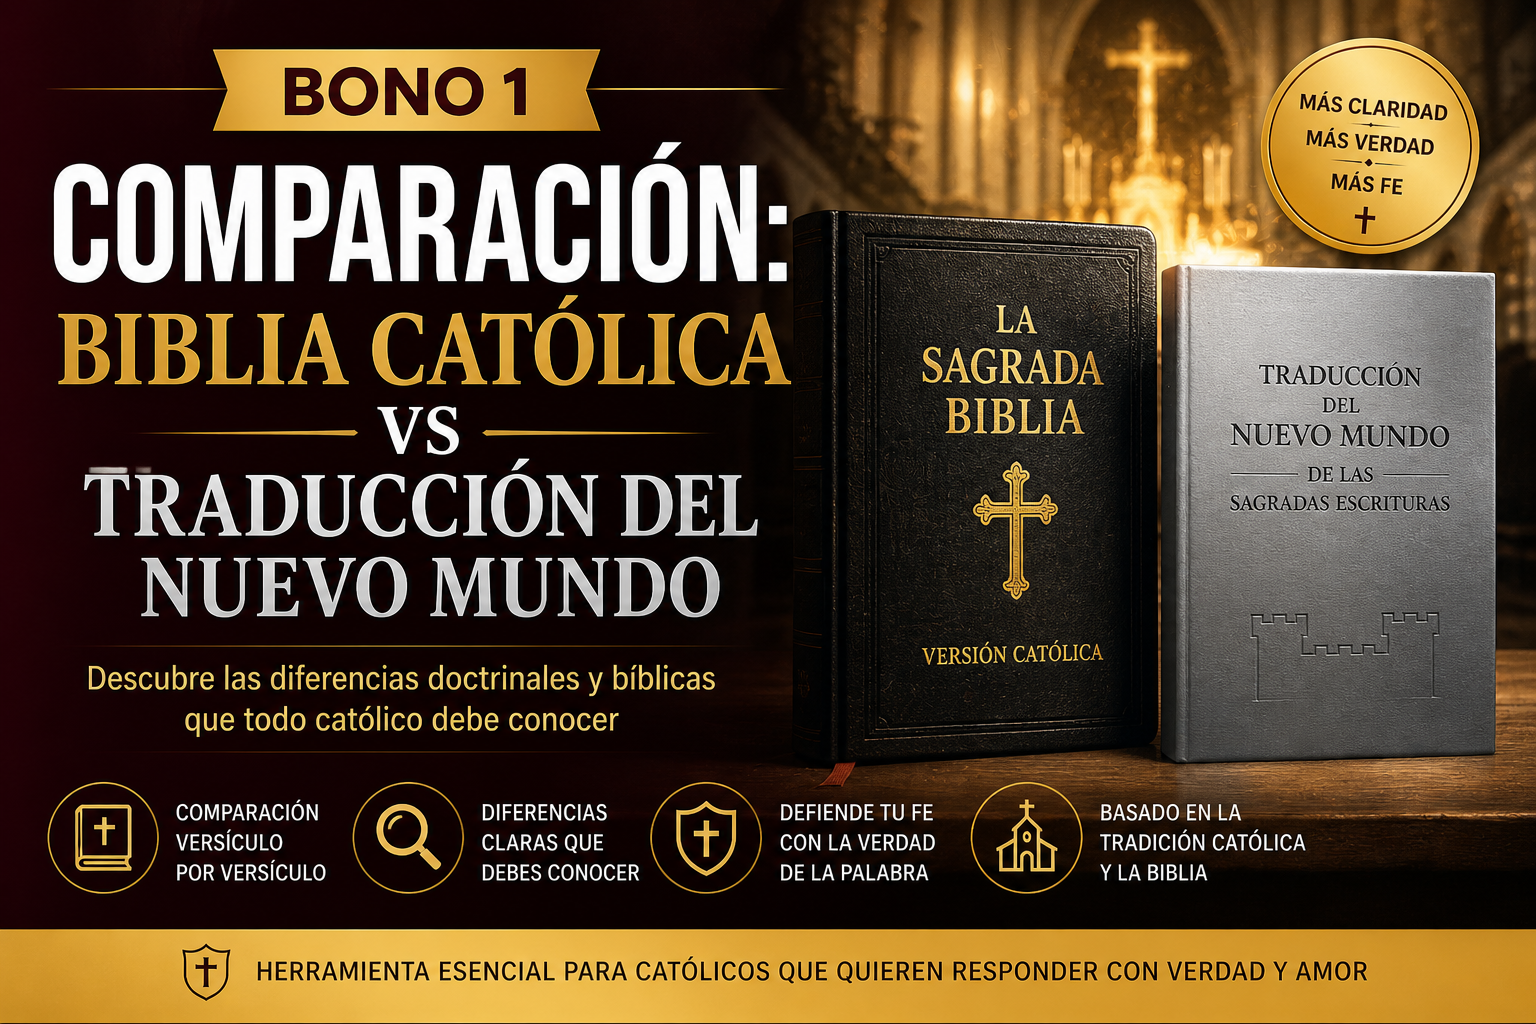
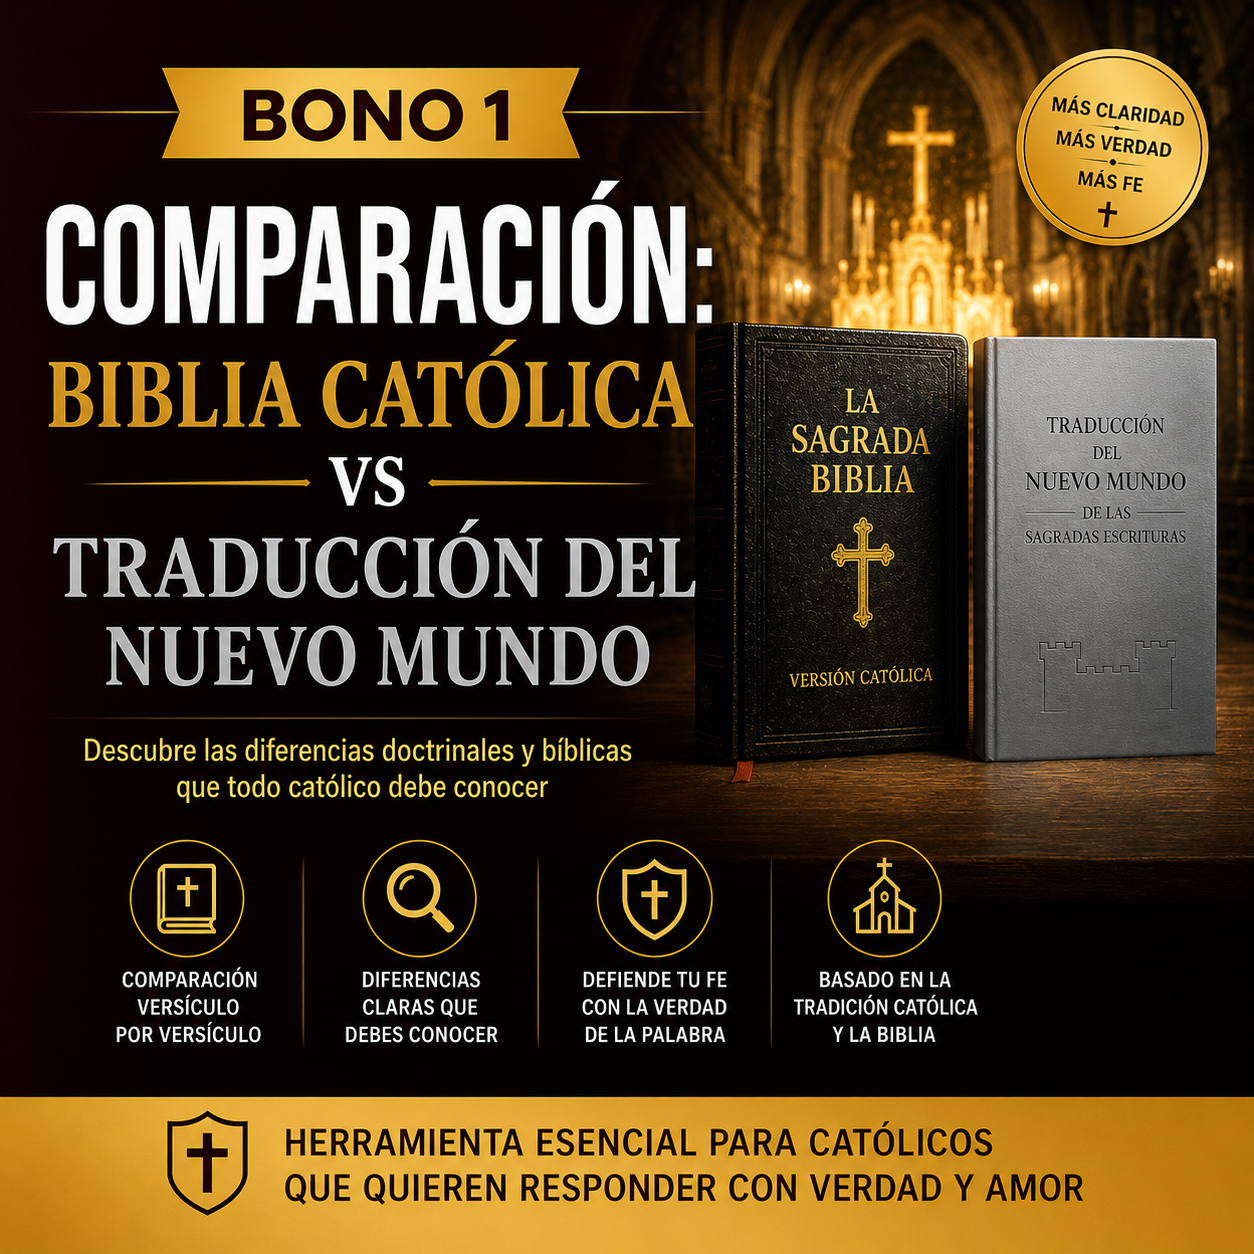
Add files via upload

diff --git a/styles-fixed.css b/styles-fixed.css
@@ -246,24 +246,24 @@ section {
 }
 
 .cta-button.primary {
-    background: var(--gradient-accent);
+    background: linear-gradient(135deg, #10b981, #059669);
     color: white;
-    box-shadow: 0 10px 30px rgba(245, 158, 11, 0.4);
+    box-shadow: 0 10px 30px rgba(16, 185, 129, 0.4);
 }
 
 .cta-button.primary:hover {
     transform: translateY(-2px);
-    box-shadow: 0 15px 40px rgba(245, 158, 11, 0.5);
+    box-shadow: 0 15px 40px rgba(16, 185, 129, 0.5);
 }
 
 .cta-button.secondary {
     background: transparent;
     color: var(--text-primary);
-    border: 2px solid var(--accent-gold);
+    border: 2px solid #10b981;
 }
 
 .cta-button.secondary:hover {
-    background: var(--accent-gold);
+    background: #10b981;
     color: white;
 }
 
@@ -998,7 +998,7 @@ section {
     }
     
     .bonus-image {
-        height: 250px;
+        height: 300px;
     }
     
     .bonus-content {
@@ -1040,9 +1040,12 @@ section {
 
 .bonus-image {
     width: 100%;
-    height: 300px;
-    object-fit: cover;
+    height: 400px;
+    object-fit: contain;
     display: block;
+    background: white;
+    padding: 10px;
+    border-radius: 15px;
 }
 
 .bonus-badge {

diff --git a/index.html b/index.html
@@ -562,7 +562,7 @@
                 
                 <div class="pricing-box">
                     <div class="price-reveal">
-                        <p class="price-intro">Hoy puedes acceder a este ebook por solo:</p>
+                        <p class="price-intro">Hoy puedes acceder a este ebook MÁS LOS BONOS GRATIS por solo:</p>
                         <div class="price-amount">
                             <span class="currency">USD</span>
                             <span class="price">6.99</span>
